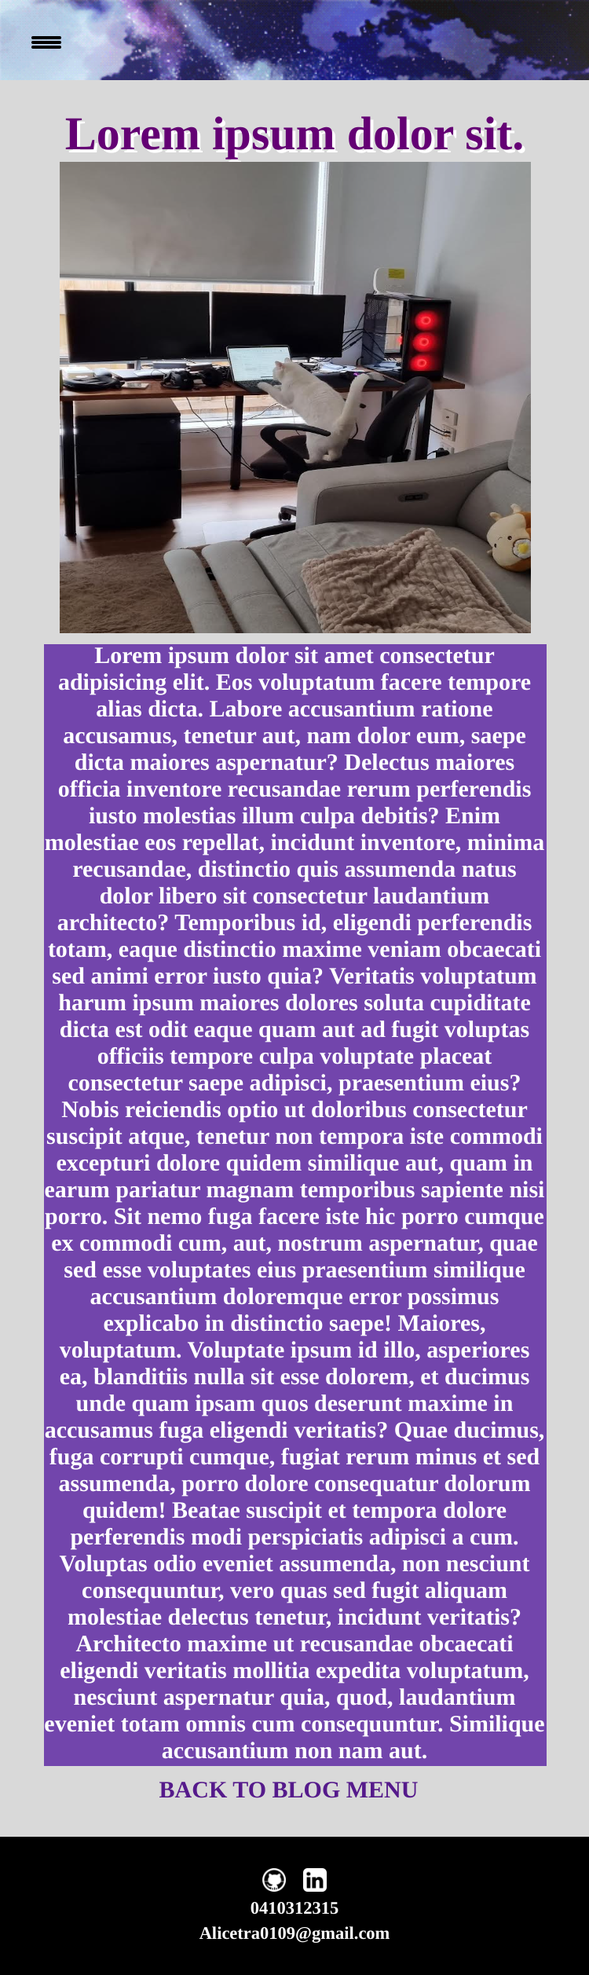
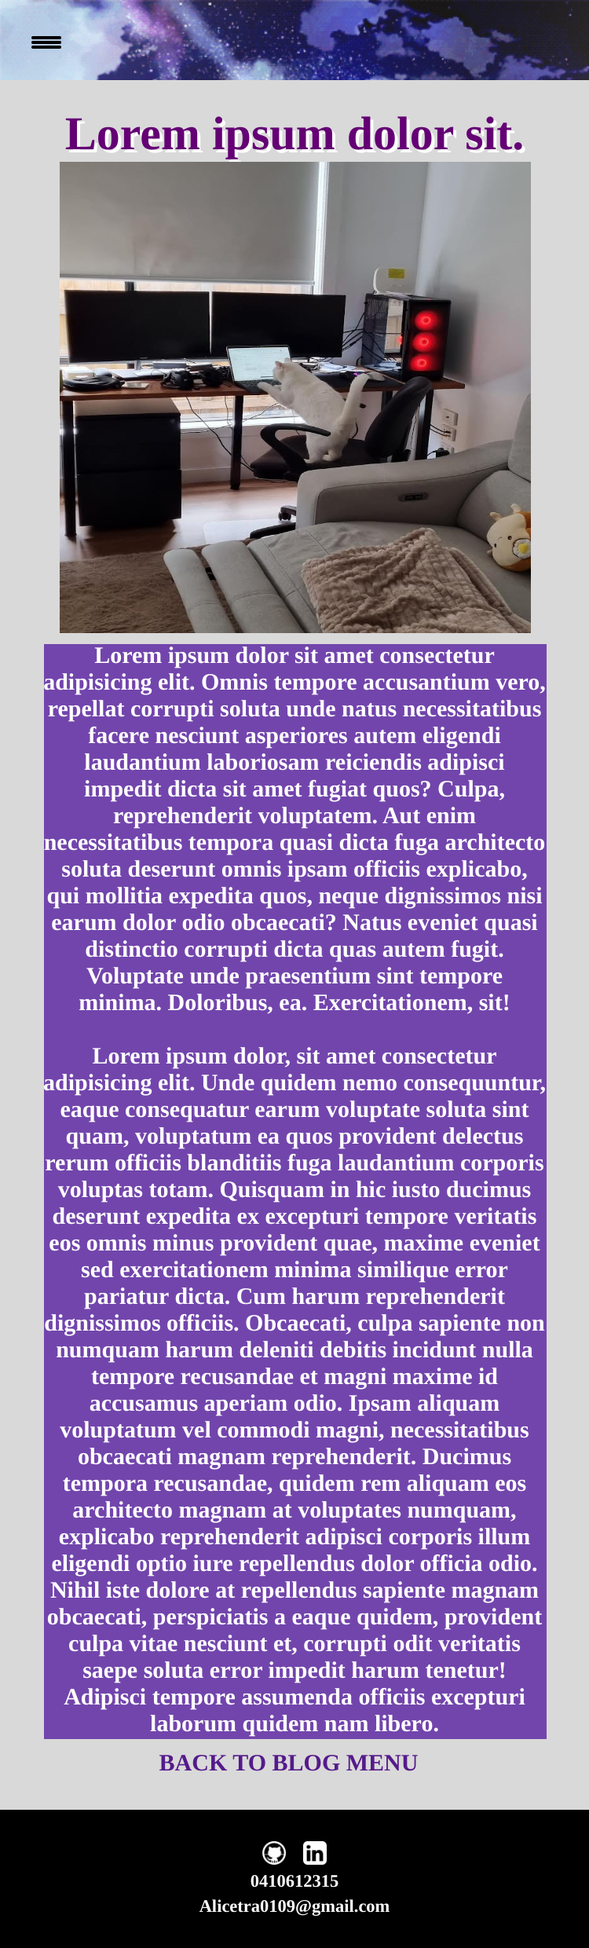
fixed the number,tried to fix my html tag,did breakpoint for the blog post,fixed the readme with new pictures

diff --git a/src/blogpostbreadwinner.html b/src/blogpostbreadwinner.html
@@ -21,16 +21,21 @@
         </ul>
     </nav>
           <main class="mainpageblogpost">
-            <div class="headingblogpost">
+            <heading class="headingblogpost">
             <h1 id="headingprojects">Lorem ipsum dolor sit.</h1>
-          </div>
+        </heading>
           <div class="blogpostarticle">
             <div class="articlepicture">
                 <img src="images/blog 1.jpg" alt="cat picture">
             </div>
             <div class="blogpostarticleparagraph">
-            <p>Lorem ipsum dolor sit amet consectetur adipisicing elit. Eos voluptatum facere tempore alias dicta. Labore accusantium ratione accusamus, tenetur aut, nam dolor eum, saepe dicta maiores aspernatur? Delectus maiores officia inventore recusandae rerum perferendis iusto molestias illum culpa debitis? Enim molestiae eos repellat, incidunt inventore, minima recusandae, distinctio quis assumenda natus dolor libero sit consectetur laudantium architecto? Temporibus id, eligendi perferendis totam, eaque distinctio maxime veniam obcaecati sed animi error iusto quia? Veritatis voluptatum harum ipsum maiores dolores soluta cupiditate dicta est odit eaque quam aut ad fugit voluptas officiis tempore culpa voluptate placeat consectetur saepe adipisci, praesentium eius? Nobis reiciendis optio ut doloribus consectetur suscipit atque, tenetur non tempora iste commodi excepturi dolore quidem similique aut, quam in earum pariatur magnam temporibus sapiente nisi porro. Sit nemo fuga facere iste hic porro cumque ex commodi cum, aut, nostrum aspernatur, quae sed esse voluptates eius praesentium similique accusantium doloremque error possimus explicabo in distinctio saepe! Maiores, voluptatum. Voluptate ipsum id illo, asperiores ea, blanditiis nulla sit esse dolorem, et ducimus unde quam ipsam quos deserunt maxime in accusamus fuga eligendi veritatis? Quae ducimus, fuga corrupti cumque, fugiat rerum minus et sed assumenda, porro dolore consequatur dolorum quidem! Beatae suscipit et tempora dolore perferendis modi perspiciatis adipisci a cum. Voluptas odio eveniet assumenda, non nesciunt consequuntur, vero quas sed fugit aliquam molestiae delectus tenetur, incidunt veritatis? Architecto maxime ut recusandae obcaecati eligendi veritatis mollitia expedita voluptatum, nesciunt aspernatur quia, quod, laudantium eveniet totam omnis cum consequuntur. Similique accusantium non nam aut.</p>
+              <article>
+            <p>Lorem ipsum dolor sit amet consectetur adipisicing elit. Omnis tempore accusantium vero, repellat corrupti soluta unde natus necessitatibus facere nesciunt asperiores autem eligendi laudantium laboriosam reiciendis adipisci impedit dicta sit amet fugiat quos? Culpa, reprehenderit voluptatem. Aut enim necessitatibus tempora quasi dicta fuga architecto soluta deserunt omnis ipsam officiis explicabo, qui mollitia expedita quos, neque dignissimos nisi earum dolor odio obcaecati? Natus eveniet quasi distinctio corrupti dicta quas autem fugit. Voluptate unde praesentium sint tempore minima. Doloribus, ea. Exercitationem, sit!
+              <br><br>
+              Lorem ipsum dolor, sit amet consectetur adipisicing elit. Unde quidem nemo consequuntur, eaque consequatur earum voluptate soluta sint quam, voluptatum ea quos provident delectus rerum officiis blanditiis fuga laudantium corporis voluptas totam. Quisquam in hic iusto ducimus deserunt expedita ex excepturi tempore veritatis eos omnis minus provident quae, maxime eveniet sed exercitationem minima similique error pariatur dicta. Cum harum reprehenderit dignissimos officiis. Obcaecati, culpa sapiente non numquam harum deleniti debitis incidunt nulla tempore recusandae et magni maxime id accusamus aperiam odio. Ipsam aliquam voluptatum vel commodi magni, necessitatibus obcaecati magnam reprehenderit. Ducimus tempora recusandae, quidem rem aliquam eos architecto magnam at voluptates numquam, explicabo reprehenderit adipisci corporis illum eligendi optio iure repellendus dolor officia odio. Nihil iste dolore at repellendus sapiente magnam obcaecati, perspiciatis a eaque quidem, provident culpa vitae nesciunt et, corrupti odit veritatis saepe soluta error impedit harum tenetur! Adipisci tempore assumenda officiis excepturi laborum quidem nam libero.
+            </p>
         </div>
+      </article>
           </div>
           <div class="backtoblog">
           <li ><a href="blog.html">BACK TO BLOG MENU</a></li>
@@ -50,7 +55,7 @@
             </div>
             </div>
             <div class="footerphoneandemailcontainer">
-            <p id="p1footer">0410312315</p>
+            <p id="p1footer">0410612315</p>
             <p id="p2footer">Alicetra0109@gmail.com</p>
           </div>
 </body>

diff --git a/src/blogpostfaceplant.html b/src/blogpostfaceplant.html
@@ -21,16 +21,21 @@
         </ul>
     </nav>
           <main class="mainpageblogpost">
-            <div class="headingblogpost">
+            <heading class="headingblogpost">
             <h1 id="headingprojects">Lorem ipsum dolor sit.</h1>
-          </div>
+        </heading>
           <div class="blogpostarticle">
             <div class="articlepicture">
                 <img src="images/blog 5.jpg" alt="cat picture">
             </div>
             <div class="blogpostarticleparagraph">
-            <p>Lorem ipsum dolor sit amet consectetur adipisicing elit. Eos voluptatum facere tempore alias dicta. Labore accusantium ratione accusamus, tenetur aut, nam dolor eum, saepe dicta maiores aspernatur? Delectus maiores officia inventore recusandae rerum perferendis iusto molestias illum culpa debitis? Enim molestiae eos repellat, incidunt inventore, minima recusandae, distinctio quis assumenda natus dolor libero sit consectetur laudantium architecto? Temporibus id, eligendi perferendis totam, eaque distinctio maxime veniam obcaecati sed animi error iusto quia? Veritatis voluptatum harum ipsum maiores dolores soluta cupiditate dicta est odit eaque quam aut ad fugit voluptas officiis tempore culpa voluptate placeat consectetur saepe adipisci, praesentium eius? Nobis reiciendis optio ut doloribus consectetur suscipit atque, tenetur non tempora iste commodi excepturi dolore quidem similique aut, quam in earum pariatur magnam temporibus sapiente nisi porro. Sit nemo fuga facere iste hic porro cumque ex commodi cum, aut, nostrum aspernatur, quae sed esse voluptates eius praesentium similique accusantium doloremque error possimus explicabo in distinctio saepe! Maiores, voluptatum. Voluptate ipsum id illo, asperiores ea, blanditiis nulla sit esse dolorem, et ducimus unde quam ipsam quos deserunt maxime in accusamus fuga eligendi veritatis? Quae ducimus, fuga corrupti cumque, fugiat rerum minus et sed assumenda, porro dolore consequatur dolorum quidem! Beatae suscipit et tempora dolore perferendis modi perspiciatis adipisci a cum. Voluptas odio eveniet assumenda, non nesciunt consequuntur, vero quas sed fugit aliquam molestiae delectus tenetur, incidunt veritatis? Architecto maxime ut recusandae obcaecati eligendi veritatis mollitia expedita voluptatum, nesciunt aspernatur quia, quod, laudantium eveniet totam omnis cum consequuntur. Similique accusantium non nam aut.</p>
+              <article>
+            <p>Lorem ipsum dolor sit amet consectetur adipisicing elit. Omnis tempore accusantium vero, repellat corrupti soluta unde natus necessitatibus facere nesciunt asperiores autem eligendi laudantium laboriosam reiciendis adipisci impedit dicta sit amet fugiat quos? Culpa, reprehenderit voluptatem. Aut enim necessitatibus tempora quasi dicta fuga architecto soluta deserunt omnis ipsam officiis explicabo, qui mollitia expedita quos, neque dignissimos nisi earum dolor odio obcaecati? Natus eveniet quasi distinctio corrupti dicta quas autem fugit. Voluptate unde praesentium sint tempore minima. Doloribus, ea. Exercitationem, sit!
+              <br><br>
+              Lorem ipsum dolor, sit amet consectetur adipisicing elit. Unde quidem nemo consequuntur, eaque consequatur earum voluptate soluta sint quam, voluptatum ea quos provident delectus rerum officiis blanditiis fuga laudantium corporis voluptas totam. Quisquam in hic iusto ducimus deserunt expedita ex excepturi tempore veritatis eos omnis minus provident quae, maxime eveniet sed exercitationem minima similique error pariatur dicta. Cum harum reprehenderit dignissimos officiis. Obcaecati, culpa sapiente non numquam harum deleniti debitis incidunt nulla tempore recusandae et magni maxime id accusamus aperiam odio. Ipsam aliquam voluptatum vel commodi magni, necessitatibus obcaecati magnam reprehenderit. Ducimus tempora recusandae, quidem rem aliquam eos architecto magnam at voluptates numquam, explicabo reprehenderit adipisci corporis illum eligendi optio iure repellendus dolor officia odio. Nihil iste dolore at repellendus sapiente magnam obcaecati, perspiciatis a eaque quidem, provident culpa vitae nesciunt et, corrupti odit veritatis saepe soluta error impedit harum tenetur! Adipisci tempore assumenda officiis excepturi laborum quidem nam libero.
+            </p>
         </div>
+      </article>
           </div>
           <div class="backtoblog">
           <li ><a href="blog.html">BACK TO BLOG MENU</a></li>
@@ -50,7 +55,7 @@
             </div>
             </div>
             <div class="footerphoneandemailcontainer">
-            <p id="p1footer">0410312315</p>
+            <p id="p1footer">0410612315</p>
             <p id="p2footer">Alicetra0109@gmail.com</p>
           </div>
 </body>

diff --git a/src/blogpostguardsneverdown.html b/src/blogpostguardsneverdown.html
@@ -21,16 +21,21 @@
         </ul>
     </nav>
           <main class="mainpageblogpost">
-            <div class="headingblogpost">
+            <heading class="headingblogpost">
             <h1 id="headingprojects">Lorem ipsum dolor sit.</h1>
-          </div>
+        </heading>
           <div class="blogpostarticle">
             <div class="articlepicture">
                 <img src="images/blog 4.jpg" alt="cat picture">
             </div>
             <div class="blogpostarticleparagraph">
-            <p>Lorem ipsum dolor sit amet consectetur adipisicing elit. Eos voluptatum facere tempore alias dicta. Labore accusantium ratione accusamus, tenetur aut, nam dolor eum, saepe dicta maiores aspernatur? Delectus maiores officia inventore recusandae rerum perferendis iusto molestias illum culpa debitis? Enim molestiae eos repellat, incidunt inventore, minima recusandae, distinctio quis assumenda natus dolor libero sit consectetur laudantium architecto? Temporibus id, eligendi perferendis totam, eaque distinctio maxime veniam obcaecati sed animi error iusto quia? Veritatis voluptatum harum ipsum maiores dolores soluta cupiditate dicta est odit eaque quam aut ad fugit voluptas officiis tempore culpa voluptate placeat consectetur saepe adipisci, praesentium eius? Nobis reiciendis optio ut doloribus consectetur suscipit atque, tenetur non tempora iste commodi excepturi dolore quidem similique aut, quam in earum pariatur magnam temporibus sapiente nisi porro. Sit nemo fuga facere iste hic porro cumque ex commodi cum, aut, nostrum aspernatur, quae sed esse voluptates eius praesentium similique accusantium doloremque error possimus explicabo in distinctio saepe! Maiores, voluptatum. Voluptate ipsum id illo, asperiores ea, blanditiis nulla sit esse dolorem, et ducimus unde quam ipsam quos deserunt maxime in accusamus fuga eligendi veritatis? Quae ducimus, fuga corrupti cumque, fugiat rerum minus et sed assumenda, porro dolore consequatur dolorum quidem! Beatae suscipit et tempora dolore perferendis modi perspiciatis adipisci a cum. Voluptas odio eveniet assumenda, non nesciunt consequuntur, vero quas sed fugit aliquam molestiae delectus tenetur, incidunt veritatis? Architecto maxime ut recusandae obcaecati eligendi veritatis mollitia expedita voluptatum, nesciunt aspernatur quia, quod, laudantium eveniet totam omnis cum consequuntur. Similique accusantium non nam aut.</p>
+              <article>
+            <p>Lorem ipsum dolor sit amet consectetur adipisicing elit. Omnis tempore accusantium vero, repellat corrupti soluta unde natus necessitatibus facere nesciunt asperiores autem eligendi laudantium laboriosam reiciendis adipisci impedit dicta sit amet fugiat quos? Culpa, reprehenderit voluptatem. Aut enim necessitatibus tempora quasi dicta fuga architecto soluta deserunt omnis ipsam officiis explicabo, qui mollitia expedita quos, neque dignissimos nisi earum dolor odio obcaecati? Natus eveniet quasi distinctio corrupti dicta quas autem fugit. Voluptate unde praesentium sint tempore minima. Doloribus, ea. Exercitationem, sit!
+              <br><br>
+              Lorem ipsum dolor, sit amet consectetur adipisicing elit. Unde quidem nemo consequuntur, eaque consequatur earum voluptate soluta sint quam, voluptatum ea quos provident delectus rerum officiis blanditiis fuga laudantium corporis voluptas totam. Quisquam in hic iusto ducimus deserunt expedita ex excepturi tempore veritatis eos omnis minus provident quae, maxime eveniet sed exercitationem minima similique error pariatur dicta. Cum harum reprehenderit dignissimos officiis. Obcaecati, culpa sapiente non numquam harum deleniti debitis incidunt nulla tempore recusandae et magni maxime id accusamus aperiam odio. Ipsam aliquam voluptatum vel commodi magni, necessitatibus obcaecati magnam reprehenderit. Ducimus tempora recusandae, quidem rem aliquam eos architecto magnam at voluptates numquam, explicabo reprehenderit adipisci corporis illum eligendi optio iure repellendus dolor officia odio. Nihil iste dolore at repellendus sapiente magnam obcaecati, perspiciatis a eaque quidem, provident culpa vitae nesciunt et, corrupti odit veritatis saepe soluta error impedit harum tenetur! Adipisci tempore assumenda officiis excepturi laborum quidem nam libero.
+            </p>
         </div>
+      </article>
           </div>
           <div class="backtoblog">
           <li ><a href="blog.html">BACK TO BLOG MENU</a></li>
@@ -50,7 +55,7 @@
             </div>
             </div>
             <div class="footerphoneandemailcontainer">
-            <p id="p1footer">0410312315</p>
+            <p id="p1footer">0410612315</p>
             <p id="p2footer">Alicetra0109@gmail.com</p>
           </div>
 </body>

diff --git a/src/blogpostloaf.html b/src/blogpostloaf.html
@@ -21,16 +21,21 @@
         </ul>
     </nav>
           <main class="mainpageblogpost">
-            <div class="headingblogpost">
+            <heading class="headingblogpost">
             <h1 id="headingprojects">Lorem ipsum dolor sit.</h1>
-          </div>
+        </heading>
           <div class="blogpostarticle">
             <div class="articlepicture">
                 <img src="images/blog 2.jpg" alt="cat picture">
             </div>
             <div class="blogpostarticleparagraph">
-            <p>Lorem ipsum dolor sit amet consectetur adipisicing elit. Eos voluptatum facere tempore alias dicta. Labore accusantium ratione accusamus, tenetur aut, nam dolor eum, saepe dicta maiores aspernatur? Delectus maiores officia inventore recusandae rerum perferendis iusto molestias illum culpa debitis? Enim molestiae eos repellat, incidunt inventore, minima recusandae, distinctio quis assumenda natus dolor libero sit consectetur laudantium architecto? Temporibus id, eligendi perferendis totam, eaque distinctio maxime veniam obcaecati sed animi error iusto quia? Veritatis voluptatum harum ipsum maiores dolores soluta cupiditate dicta est odit eaque quam aut ad fugit voluptas officiis tempore culpa voluptate placeat consectetur saepe adipisci, praesentium eius? Nobis reiciendis optio ut doloribus consectetur suscipit atque, tenetur non tempora iste commodi excepturi dolore quidem similique aut, quam in earum pariatur magnam temporibus sapiente nisi porro. Sit nemo fuga facere iste hic porro cumque ex commodi cum, aut, nostrum aspernatur, quae sed esse voluptates eius praesentium similique accusantium doloremque error possimus explicabo in distinctio saepe! Maiores, voluptatum. Voluptate ipsum id illo, asperiores ea, blanditiis nulla sit esse dolorem, et ducimus unde quam ipsam quos deserunt maxime in accusamus fuga eligendi veritatis? Quae ducimus, fuga corrupti cumque, fugiat rerum minus et sed assumenda, porro dolore consequatur dolorum quidem! Beatae suscipit et tempora dolore perferendis modi perspiciatis adipisci a cum. Voluptas odio eveniet assumenda, non nesciunt consequuntur, vero quas sed fugit aliquam molestiae delectus tenetur, incidunt veritatis? Architecto maxime ut recusandae obcaecati eligendi veritatis mollitia expedita voluptatum, nesciunt aspernatur quia, quod, laudantium eveniet totam omnis cum consequuntur. Similique accusantium non nam aut.</p>
+              <article>
+            <p>Lorem ipsum dolor sit amet consectetur adipisicing elit. Omnis tempore accusantium vero, repellat corrupti soluta unde natus necessitatibus facere nesciunt asperiores autem eligendi laudantium laboriosam reiciendis adipisci impedit dicta sit amet fugiat quos? Culpa, reprehenderit voluptatem. Aut enim necessitatibus tempora quasi dicta fuga architecto soluta deserunt omnis ipsam officiis explicabo, qui mollitia expedita quos, neque dignissimos nisi earum dolor odio obcaecati? Natus eveniet quasi distinctio corrupti dicta quas autem fugit. Voluptate unde praesentium sint tempore minima. Doloribus, ea. Exercitationem, sit!
+              <br><br>
+              Lorem ipsum dolor, sit amet consectetur adipisicing elit. Unde quidem nemo consequuntur, eaque consequatur earum voluptate soluta sint quam, voluptatum ea quos provident delectus rerum officiis blanditiis fuga laudantium corporis voluptas totam. Quisquam in hic iusto ducimus deserunt expedita ex excepturi tempore veritatis eos omnis minus provident quae, maxime eveniet sed exercitationem minima similique error pariatur dicta. Cum harum reprehenderit dignissimos officiis. Obcaecati, culpa sapiente non numquam harum deleniti debitis incidunt nulla tempore recusandae et magni maxime id accusamus aperiam odio. Ipsam aliquam voluptatum vel commodi magni, necessitatibus obcaecati magnam reprehenderit. Ducimus tempora recusandae, quidem rem aliquam eos architecto magnam at voluptates numquam, explicabo reprehenderit adipisci corporis illum eligendi optio iure repellendus dolor officia odio. Nihil iste dolore at repellendus sapiente magnam obcaecati, perspiciatis a eaque quidem, provident culpa vitae nesciunt et, corrupti odit veritatis saepe soluta error impedit harum tenetur! Adipisci tempore assumenda officiis excepturi laborum quidem nam libero.
+            </p>
         </div>
+      </article>
           </div>
           <div class="backtoblog">
           <li ><a href="blog.html">BACK TO BLOG MENU</a></li>
@@ -50,7 +55,7 @@
             </div>
             </div>
             <div class="footerphoneandemailcontainer">
-            <p id="p1footer">0410312315</p>
+            <p id="p1footer">0410612315</p>
             <p id="p2footer">Alicetra0109@gmail.com</p>
           </div>
 </body>

diff --git a/src/blogpostmodelling.html b/src/blogpostmodelling.html
@@ -21,16 +21,21 @@
         </ul>
     </nav>
           <main class="mainpageblogpost">
-            <div class="headingblogpost">
+            <heading class="headingblogpost">
             <h1 id="headingprojects">Lorem ipsum dolor sit.</h1>
-          </div>
+        </heading>
           <div class="blogpostarticle">
             <div class="articlepicture">
                 <img src="images/blog 3.jpg" alt="cat picture">
             </div>
             <div class="blogpostarticleparagraph">
-            <p>Lorem ipsum dolor sit amet consectetur adipisicing elit. Eos voluptatum facere tempore alias dicta. Labore accusantium ratione accusamus, tenetur aut, nam dolor eum, saepe dicta maiores aspernatur? Delectus maiores officia inventore recusandae rerum perferendis iusto molestias illum culpa debitis? Enim molestiae eos repellat, incidunt inventore, minima recusandae, distinctio quis assumenda natus dolor libero sit consectetur laudantium architecto? Temporibus id, eligendi perferendis totam, eaque distinctio maxime veniam obcaecati sed animi error iusto quia? Veritatis voluptatum harum ipsum maiores dolores soluta cupiditate dicta est odit eaque quam aut ad fugit voluptas officiis tempore culpa voluptate placeat consectetur saepe adipisci, praesentium eius? Nobis reiciendis optio ut doloribus consectetur suscipit atque, tenetur non tempora iste commodi excepturi dolore quidem similique aut, quam in earum pariatur magnam temporibus sapiente nisi porro. Sit nemo fuga facere iste hic porro cumque ex commodi cum, aut, nostrum aspernatur, quae sed esse voluptates eius praesentium similique accusantium doloremque error possimus explicabo in distinctio saepe! Maiores, voluptatum. Voluptate ipsum id illo, asperiores ea, blanditiis nulla sit esse dolorem, et ducimus unde quam ipsam quos deserunt maxime in accusamus fuga eligendi veritatis? Quae ducimus, fuga corrupti cumque, fugiat rerum minus et sed assumenda, porro dolore consequatur dolorum quidem! Beatae suscipit et tempora dolore perferendis modi perspiciatis adipisci a cum. Voluptas odio eveniet assumenda, non nesciunt consequuntur, vero quas sed fugit aliquam molestiae delectus tenetur, incidunt veritatis? Architecto maxime ut recusandae obcaecati eligendi veritatis mollitia expedita voluptatum, nesciunt aspernatur quia, quod, laudantium eveniet totam omnis cum consequuntur. Similique accusantium non nam aut.</p>
+              <article>
+            <p>Lorem ipsum dolor sit amet consectetur adipisicing elit. Omnis tempore accusantium vero, repellat corrupti soluta unde natus necessitatibus facere nesciunt asperiores autem eligendi laudantium laboriosam reiciendis adipisci impedit dicta sit amet fugiat quos? Culpa, reprehenderit voluptatem. Aut enim necessitatibus tempora quasi dicta fuga architecto soluta deserunt omnis ipsam officiis explicabo, qui mollitia expedita quos, neque dignissimos nisi earum dolor odio obcaecati? Natus eveniet quasi distinctio corrupti dicta quas autem fugit. Voluptate unde praesentium sint tempore minima. Doloribus, ea. Exercitationem, sit!
+              <br><br>
+              Lorem ipsum dolor, sit amet consectetur adipisicing elit. Unde quidem nemo consequuntur, eaque consequatur earum voluptate soluta sint quam, voluptatum ea quos provident delectus rerum officiis blanditiis fuga laudantium corporis voluptas totam. Quisquam in hic iusto ducimus deserunt expedita ex excepturi tempore veritatis eos omnis minus provident quae, maxime eveniet sed exercitationem minima similique error pariatur dicta. Cum harum reprehenderit dignissimos officiis. Obcaecati, culpa sapiente non numquam harum deleniti debitis incidunt nulla tempore recusandae et magni maxime id accusamus aperiam odio. Ipsam aliquam voluptatum vel commodi magni, necessitatibus obcaecati magnam reprehenderit. Ducimus tempora recusandae, quidem rem aliquam eos architecto magnam at voluptates numquam, explicabo reprehenderit adipisci corporis illum eligendi optio iure repellendus dolor officia odio. Nihil iste dolore at repellendus sapiente magnam obcaecati, perspiciatis a eaque quidem, provident culpa vitae nesciunt et, corrupti odit veritatis saepe soluta error impedit harum tenetur! Adipisci tempore assumenda officiis excepturi laborum quidem nam libero.
+            </p>
         </div>
+      </article>
           </div>
           <div class="backtoblog">
           <li ><a href="blog.html">BACK TO BLOG MENU</a></li>
@@ -50,7 +55,7 @@
             </div>
             </div>
             <div class="footerphoneandemailcontainer">
-            <p id="p1footer">0410312315</p>
+            <p id="p1footer">0410612315</p>
             <p id="p2footer">Alicetra0109@gmail.com</p>
           </div>
 </body>

diff --git a/src/blog.html b/src/blog.html
@@ -21,11 +21,12 @@
         </ul>
     </nav>
           <main class="mainpageblog">
-            <div class="headingboxblog">
+            <heading class="headingboxblog">
                     <h1 id="headingblog">BLOG.</h1>
-                  </div>
+                </heading>
                   <div class="contentboxblog">
                       <div class="blogbox1">
+                        <article>
                       <div class="blogandheading">
                     <a href="blogpostloaf.html">
                         <p>10/10 Loaf</p>
@@ -33,6 +34,8 @@
                         <img src="images/blog 2.jpg" alt="cat picture">
                       </a>
                     </div>
+                  </article>
+                  <article>
                       <div class="blogandheading">
                       <a href="blogpostmodelling.html">
                         <p>Modelling</p>
@@ -40,8 +43,10 @@
                         <img src="images/blog 3.jpg" alt="cat picture">
                       </a>
                     </div>
+                  </article>
                   </div>
                     <div class="blogbox2">
+                      <article>
                     <div class="blogandheading">
                       <a href="blogpostbreadwinner.html">
                         <p>Breadwinner</p>
@@ -49,6 +54,8 @@
                         <img src="images/blog 1.jpg" alt="cat picture">
                       </a>
                     </div>
+                  </article>
+                  <article>
                       <div class="blogandheading">
                     <a href="blogpostfaceplant.html">
                         <p>10/10 Face plant</p>
@@ -56,9 +63,10 @@
                         <img src="images/blog 5.jpg" alt="cat picture">
                       </a>
                     </div>
+                  </article>
                   </div>
-
                     <div class="blogbox3">
+                      <article>
                     <div class="blogandheading">
                       <a href="blogpostguardsneverdown.html">
                         <p>Guards never down</p>
@@ -66,6 +74,7 @@
                         <img src="images/blog 4.jpg" alt="cat picture">
                       </a>
                     </div>
+                  </article>
                   </div>
                     </div>
           </main>
@@ -83,7 +92,7 @@
             </div>
             </div>
             <div class="footerphoneandemailcontainer">
-            <p id="p1footer">0410312315</p>
+            <p id="p1footer">0410612315</p>
             <p id="p2footer">Alicetra0109@gmail.com</p>
           </div>
 </body>

diff --git a/src/about.html b/src/about.html
@@ -21,7 +21,7 @@
         </ul>
     </nav>
           <main class="mainpageabout">
-            <h1 id="headingabout" >ABOUT ME.</h1>
+            <heading id="headingabout" >ABOUT ME.</heading>
             <article>
             <div class="personalbox">
               <div class="personalleft">
@@ -74,7 +74,7 @@
             </div>
             </div>
             <div class="footerphoneandemailcontainer">
-            <p id="p1footer">0410312315</p>
+            <p id="p1footer">0410612315</p>
             <p id="p2footer">Alicetra0109@gmail.com</p>
           </div>
 </body>

diff --git a/src/projects.html b/src/projects.html
@@ -23,7 +23,9 @@
           <main class="mainpageprojects">
             <div class="box">
             <div class="headingboxprojects">
+              <heading>
             <h1 id="headingprojects">MY PORTFOLIO.</h1>
+          </heading>
           </div>
           <div class="contentboxproject">
             <div class="introbox">
@@ -42,7 +44,6 @@
             </p>
           </section>
           </div>
-    
           <div class ="projectsbox">
               <div class="projectboxtop">
                 <div class="topleft">

diff --git a/src/index.html b/src/index.html
@@ -37,7 +37,7 @@
   </div>
   </div>
   <div class="footerphoneandemailcontainer">
-  <p id="p1footer">0410312315</p>
+  <p id="p1footer">0410612315</p>
   <p id="p2footer">Alicetra0109@gmail.com</p>
 </div>
 </body>
